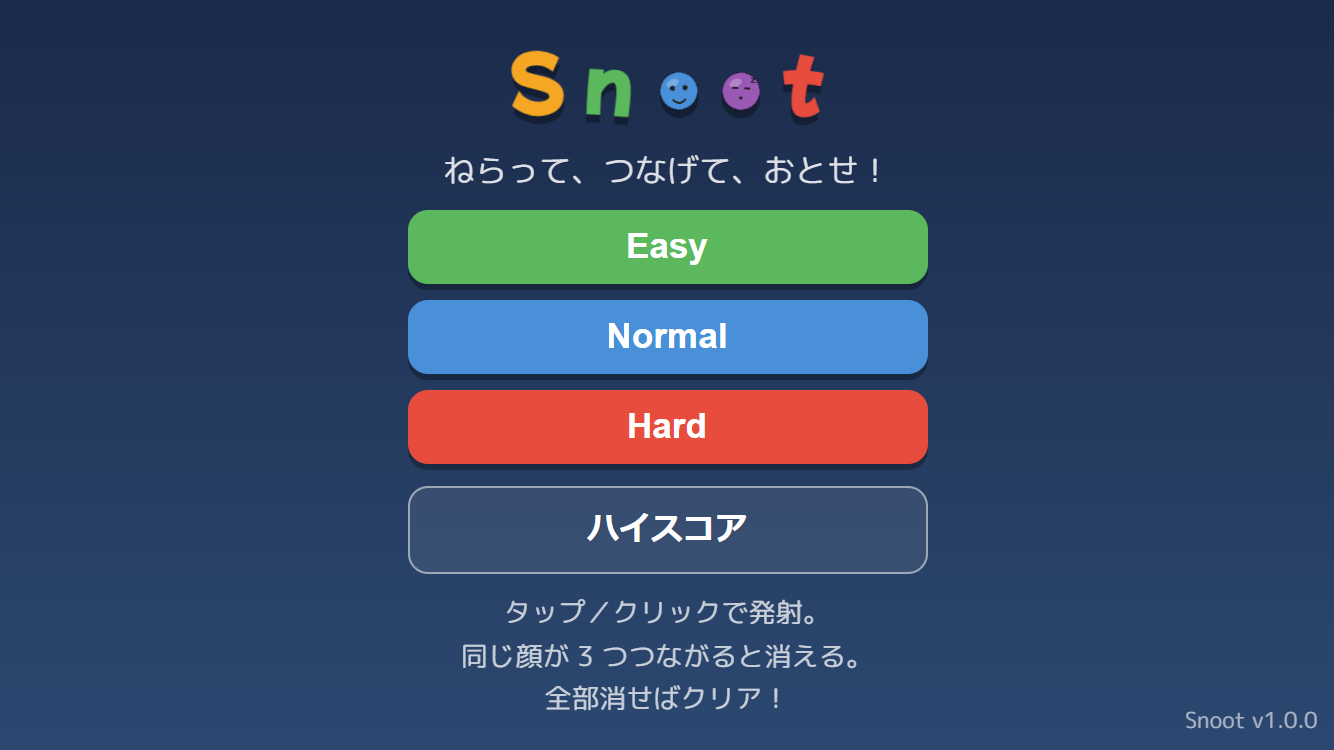
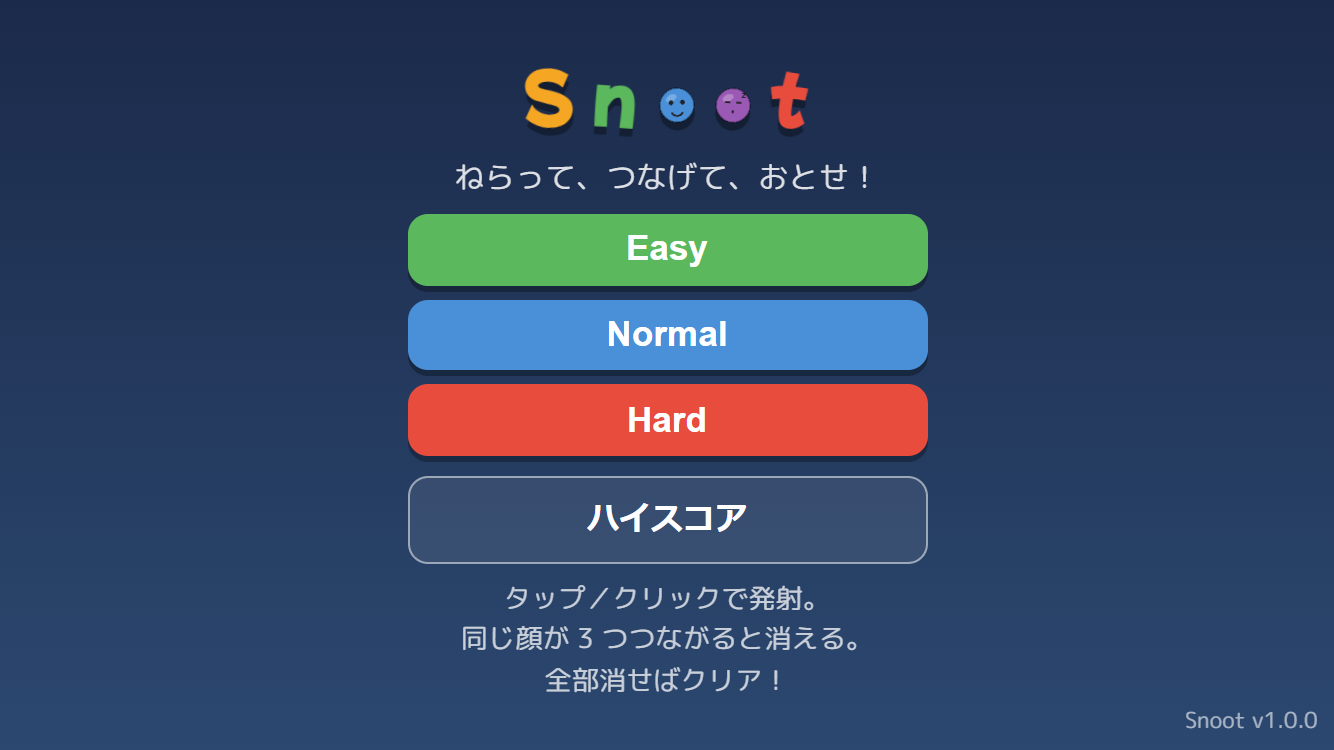
横向き時の詰め方を 4 種で共通の最終値に揃える（#32）
デザイン案 3 種で検証した結果、ドット絵案（DotGothic16）では詰めが
足りず iPhone SE 横向きではみ出したため、メディアクエリの値を全案で
収まる水準に強め、main も同じ値に揃えた。備忘録の対応後画像も更新。

diff --git a/src/style.css b/src/style.css
@@ -172,18 +172,21 @@ html.in-game body {
    従来はロゴが上で切れ、説明文が画面外へ出ていた（body は overflow:hidden なので
    スクロールもできず読めない）。縦向きスマホ（高さ 568px 以上）には影響しない */
 @media (max-height: 480px) {
-  #title-screen { gap: 0.5rem; padding: 0.5rem; }
-  #logo { font-size: clamp(2.2rem, 9vh, 3.2rem); }
-  #level-buttons { gap: 0.5rem; }
-  .level-btn { font-size: 1.1rem; padding: 0.5rem; }
-  #title-help { line-height: 1.6; }
+  #title-screen { gap: 0.45rem; padding: 0.5rem; }
+  #logo { font-size: clamp(2rem, 8.5vh, 3rem); }
+  #tagline { font-size: 0.95rem; }
+  #level-buttons { gap: 0.45rem; }
+  .level-btn { font-size: 1.1rem; padding: 0.45rem; }
+  #title-help { line-height: 1.5; }
 }
 
 /* さらに低い画面（iPhone SE の横向き＝320px 等）はもう一段詰める */
 @media (max-height: 340px) {
-  #title-screen { gap: 0.35rem; }
-  #tagline { font-size: 0.85rem; }
-  .level-btn { font-size: 1rem; padding: 0.4rem; }
+  #title-screen { gap: 0.3rem; padding: 0.3rem; }
+  #logo { font-size: 2rem; }
+  #tagline { font-size: 0.8rem; }
+  .level-btn { font-size: 0.95rem; padding: 0.35rem; }
+  #title-help { line-height: 1.4; }
 }
 
 /* ---- ゲーム画面 ---- */
